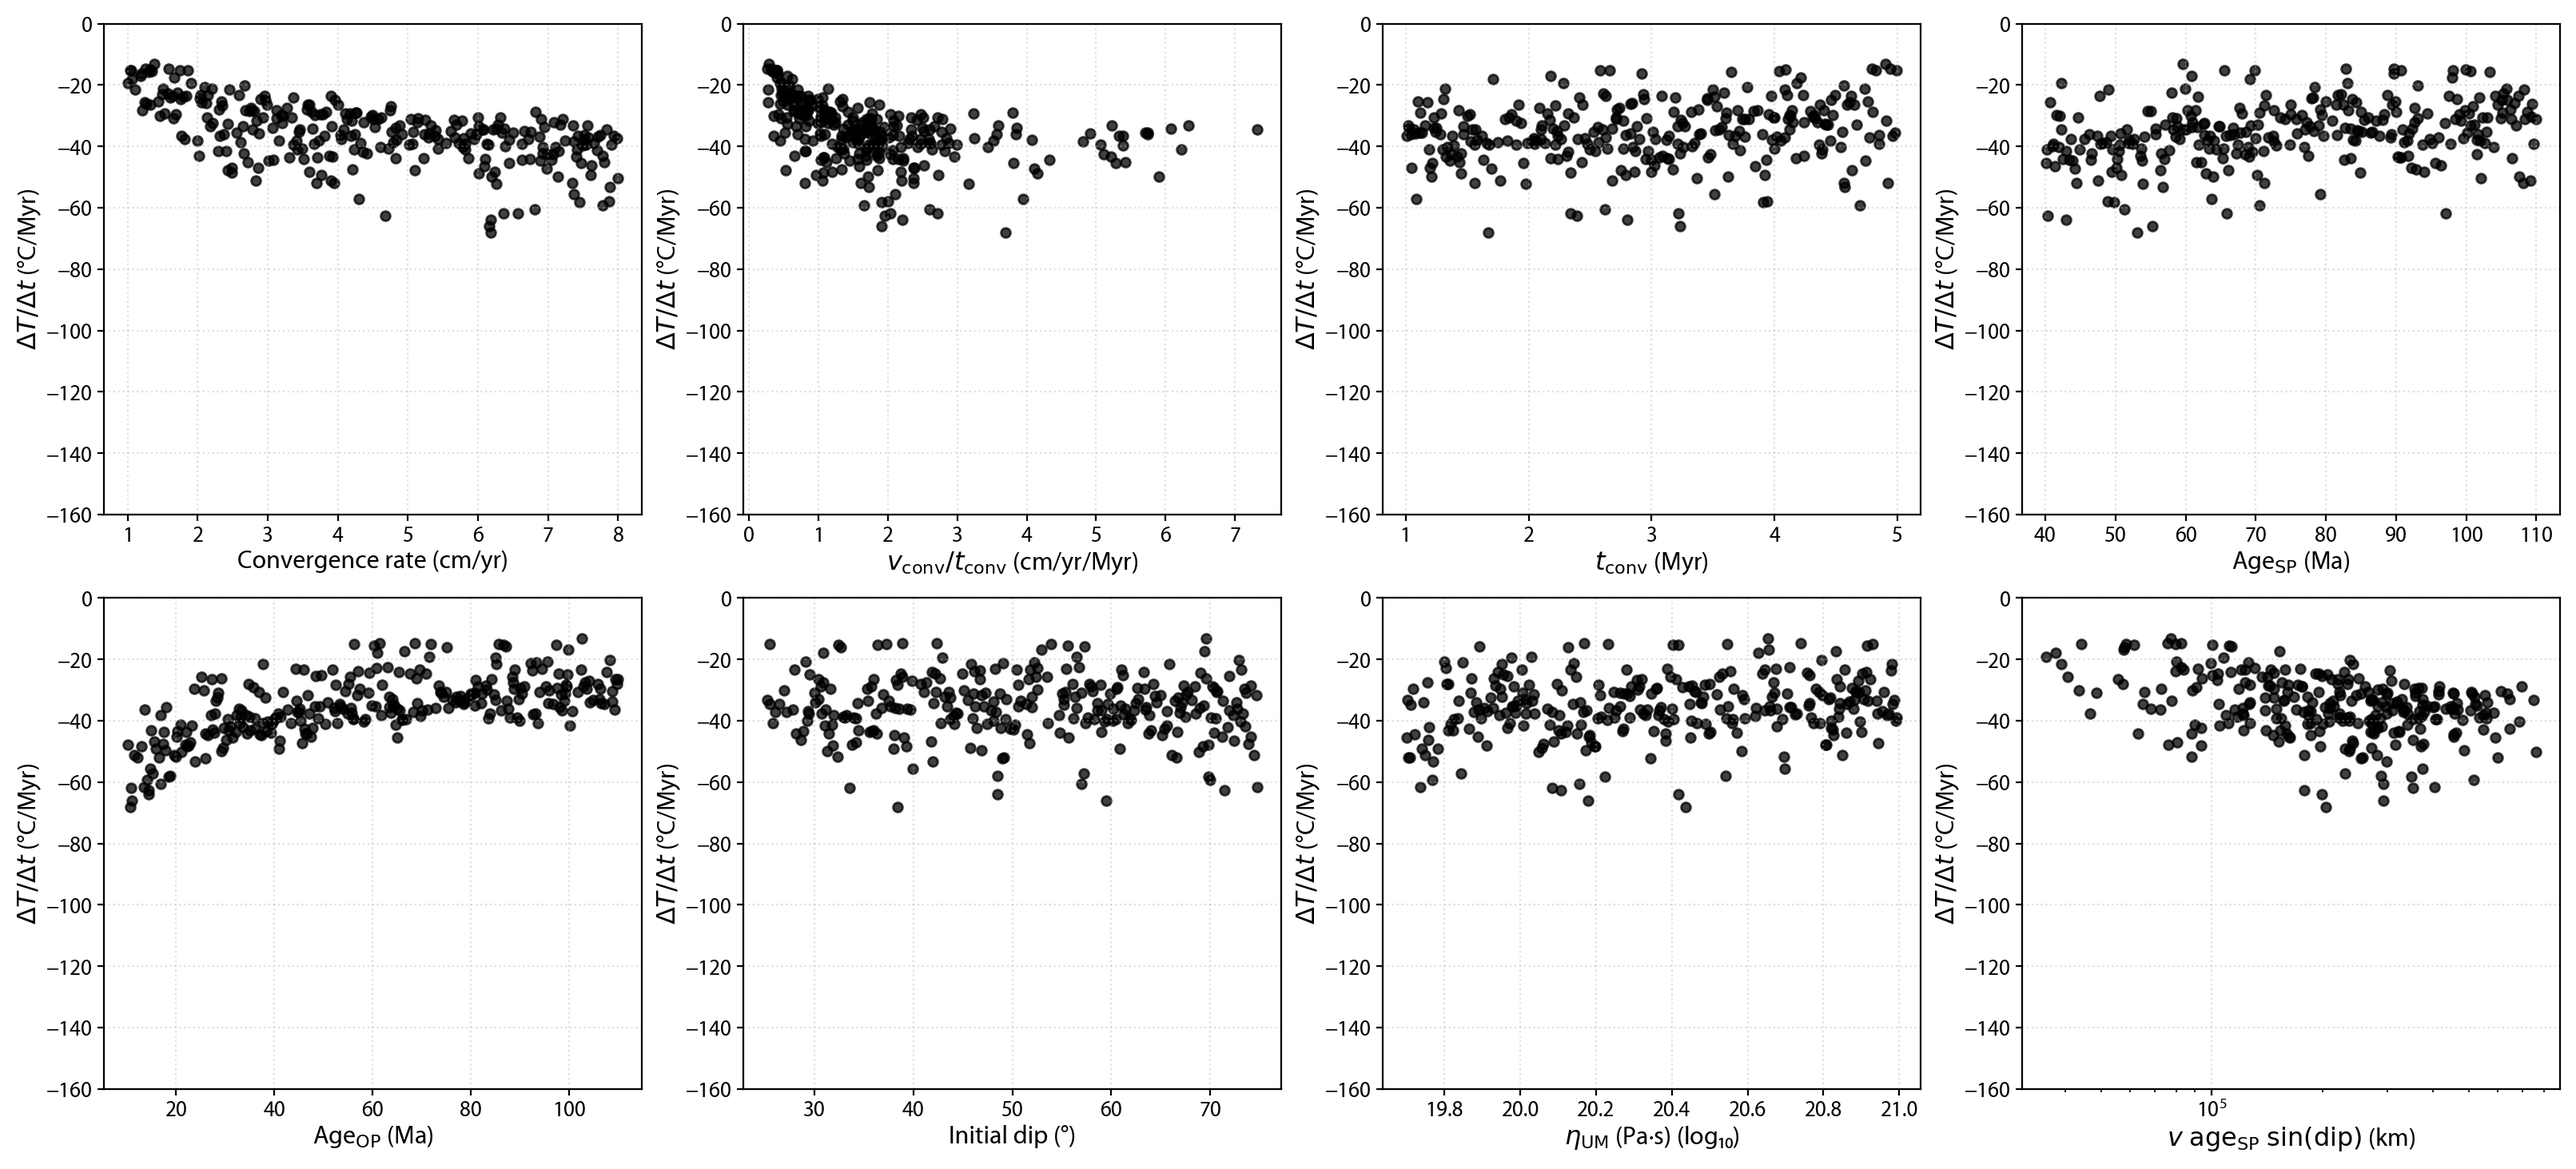
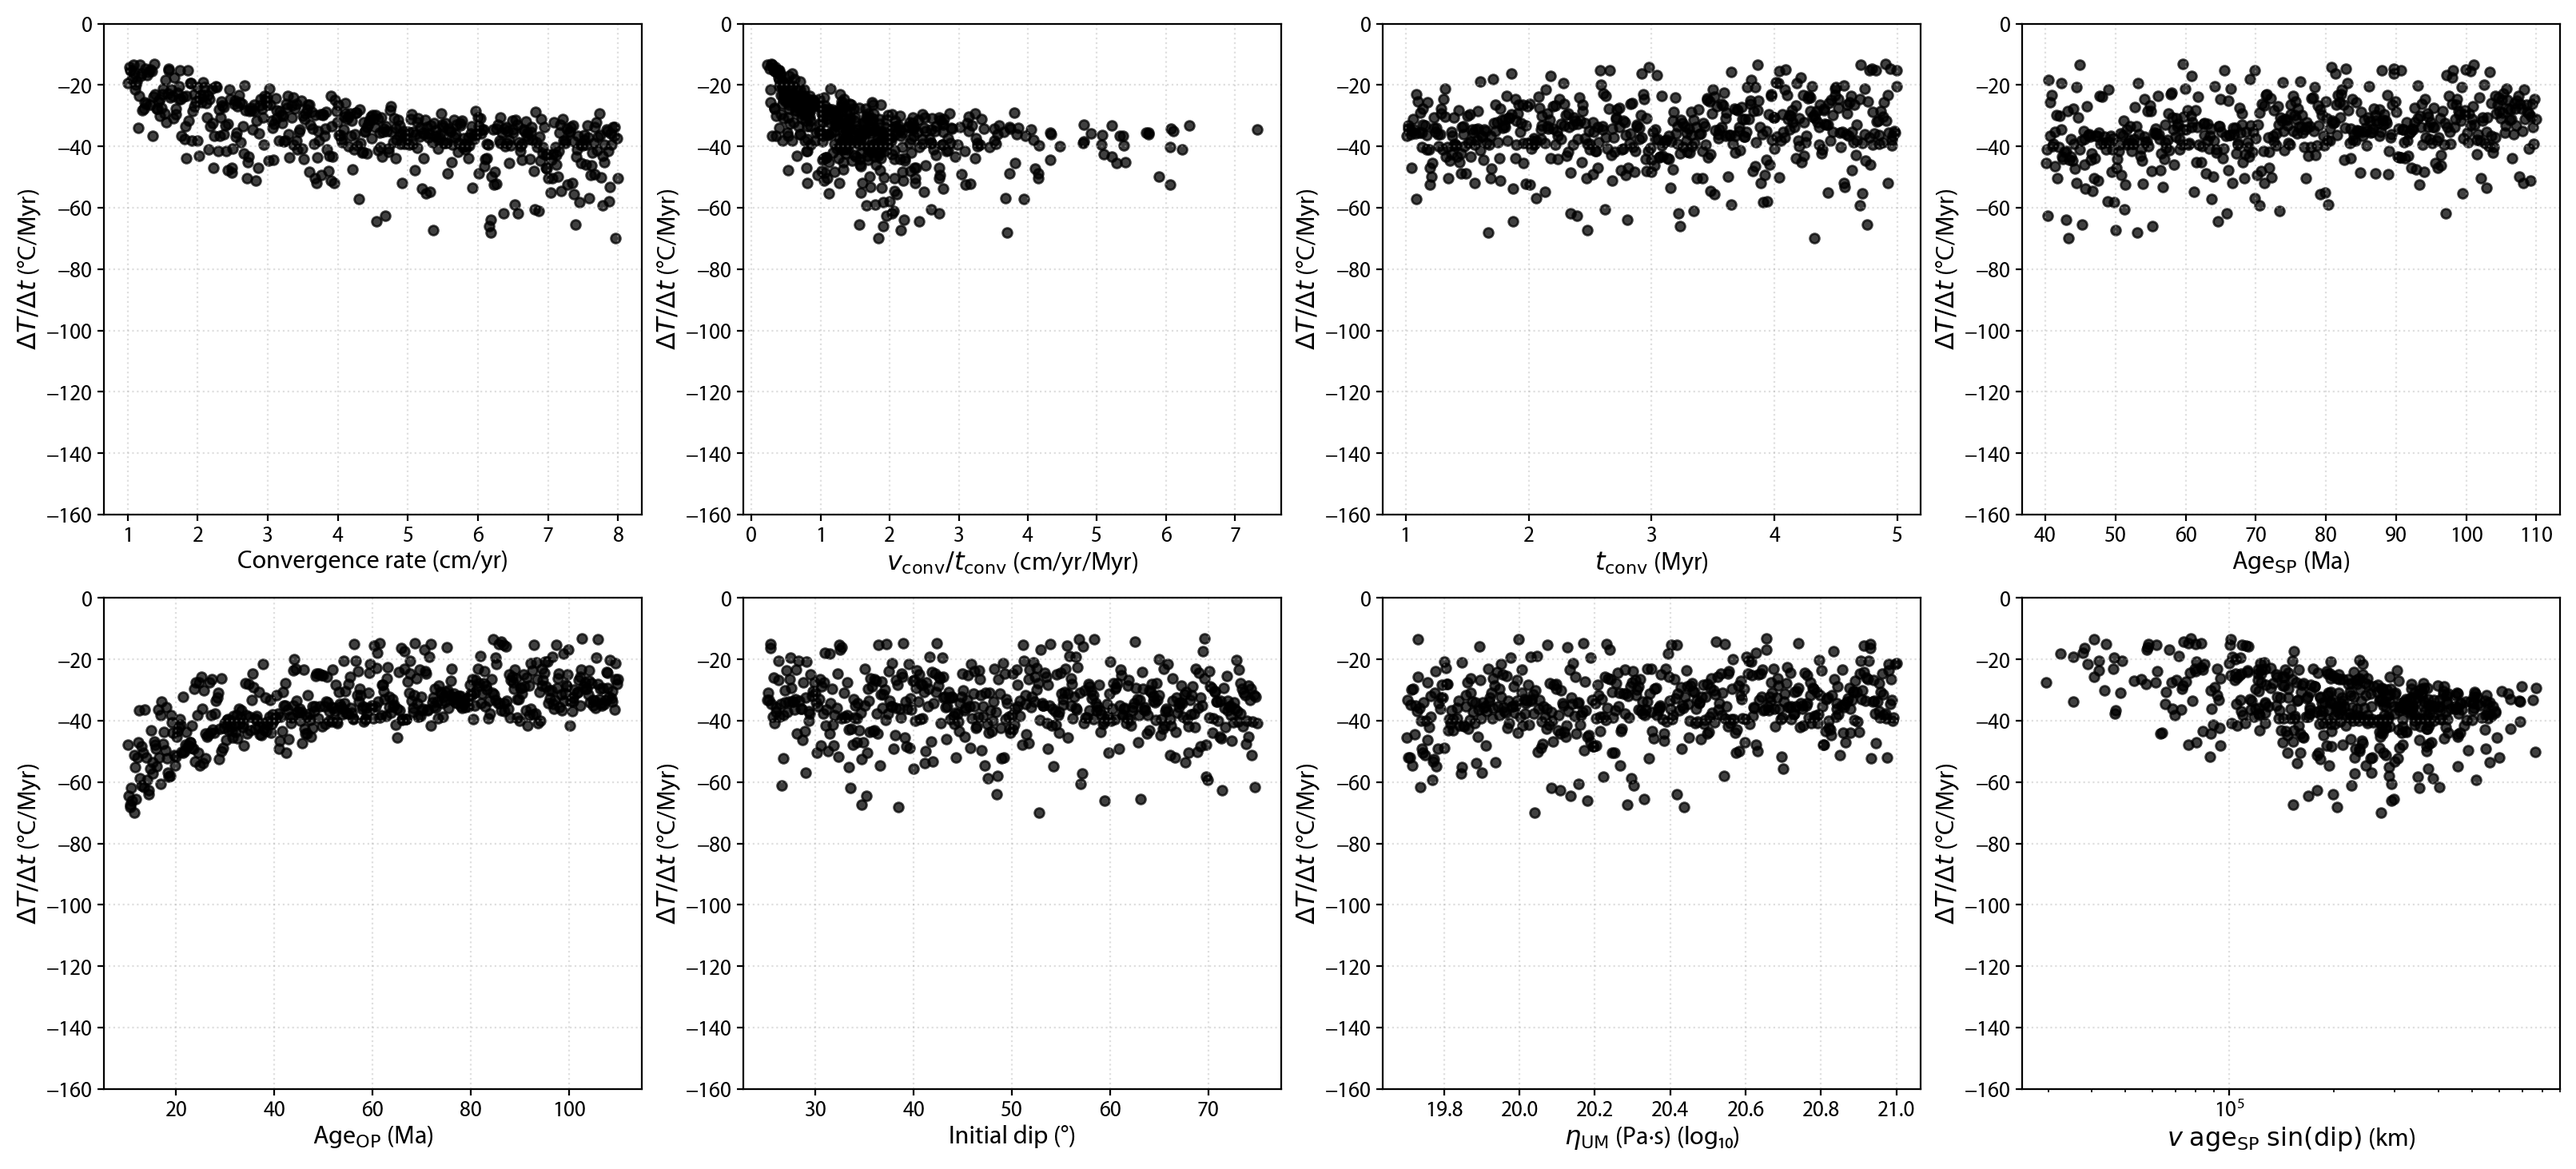
qc: refresh ramped-vc core plots and update session notes

diff --git a/SESSION_NOTES.md b/SESSION_NOTES.md
@@ -155,3 +155,31 @@ Use this next time:
 - `52569b3` qc: add optional Tprof heatmap and ensemble envelope visualizations
 - `7227318` qc: extend colored pairplots to 10/50/70 km
 - `42d61d5` qc: add pre-ML master healthcheck outputs
+
+---
+
+## Update (2026-02-18, ground-check + ramped-vc refresh)
+
+### Verification Completed
+
+- Re-checked current docs/code alignment:
+  - `train.py`
+  - `tests/test_train_smoke.py`
+  - `src/qc-numerical-mods/make_all_plots.sh`
+  - `README.md`
+- Confirmed smoke/integration test status:
+  - `make test` -> `python3 -m unittest discover -s tests -v`
+  - result: 10 tests passing
+
+### Artifacts Refreshed
+
+- Refreshed ramped-vc QC output figures under:
+  - `plots/qc-numerical-mods/ramped-vc/`
+- Includes updated core outputs and two newly generated diagnostics:
+  - `master_DT1-10_healthcheck_missing-heatmap.png`
+  - `param_depth_corr_dTdt_pearson.png`
+
+### Tracking Policy Check
+
+- Current repository pattern is to version-control selected QC figures in `plots/`.
+- `.gitignore` does not ignore `plots/`, so regenerated core QC PNGs are expected to appear as git changes.
